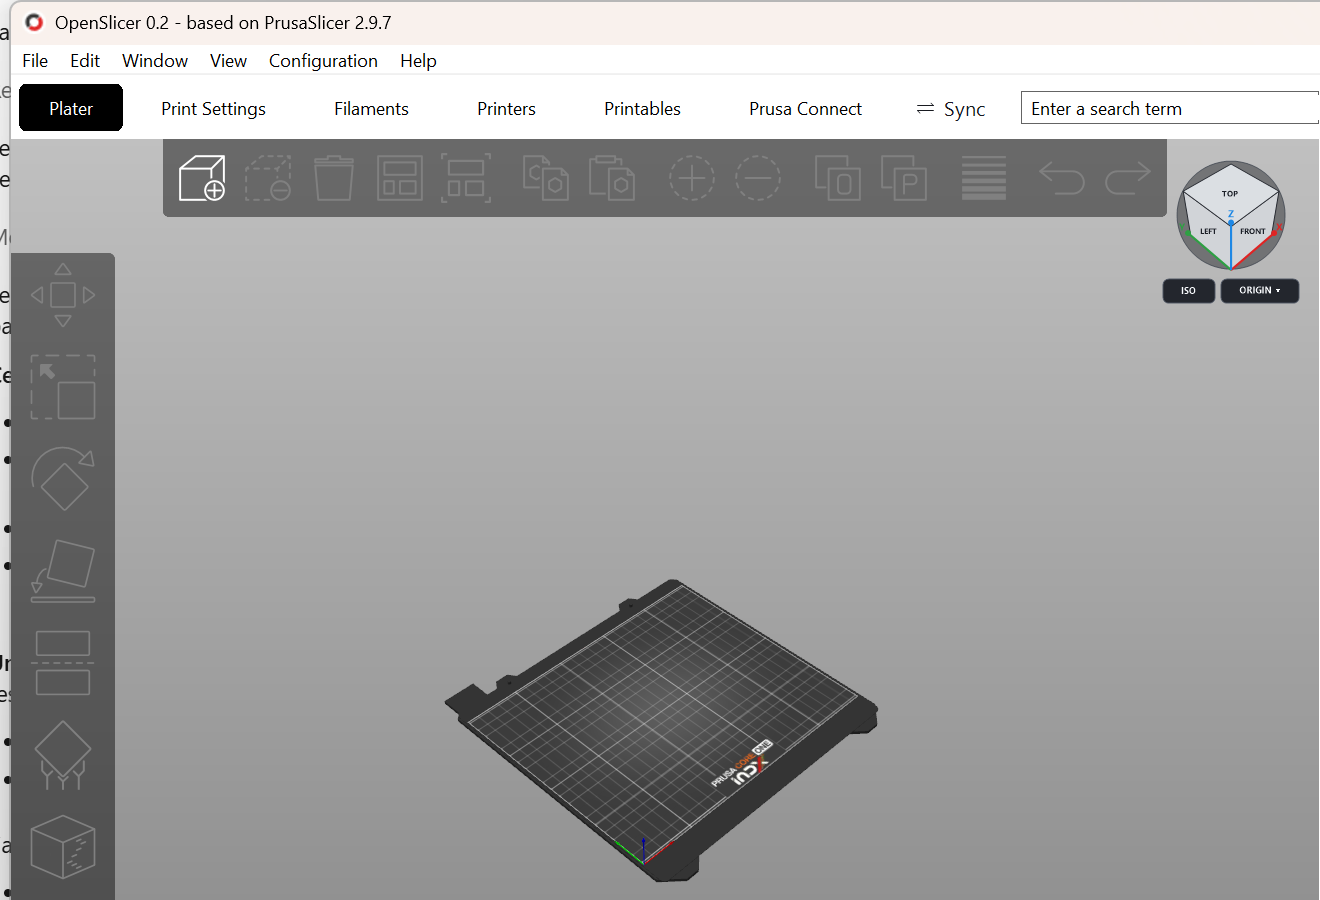
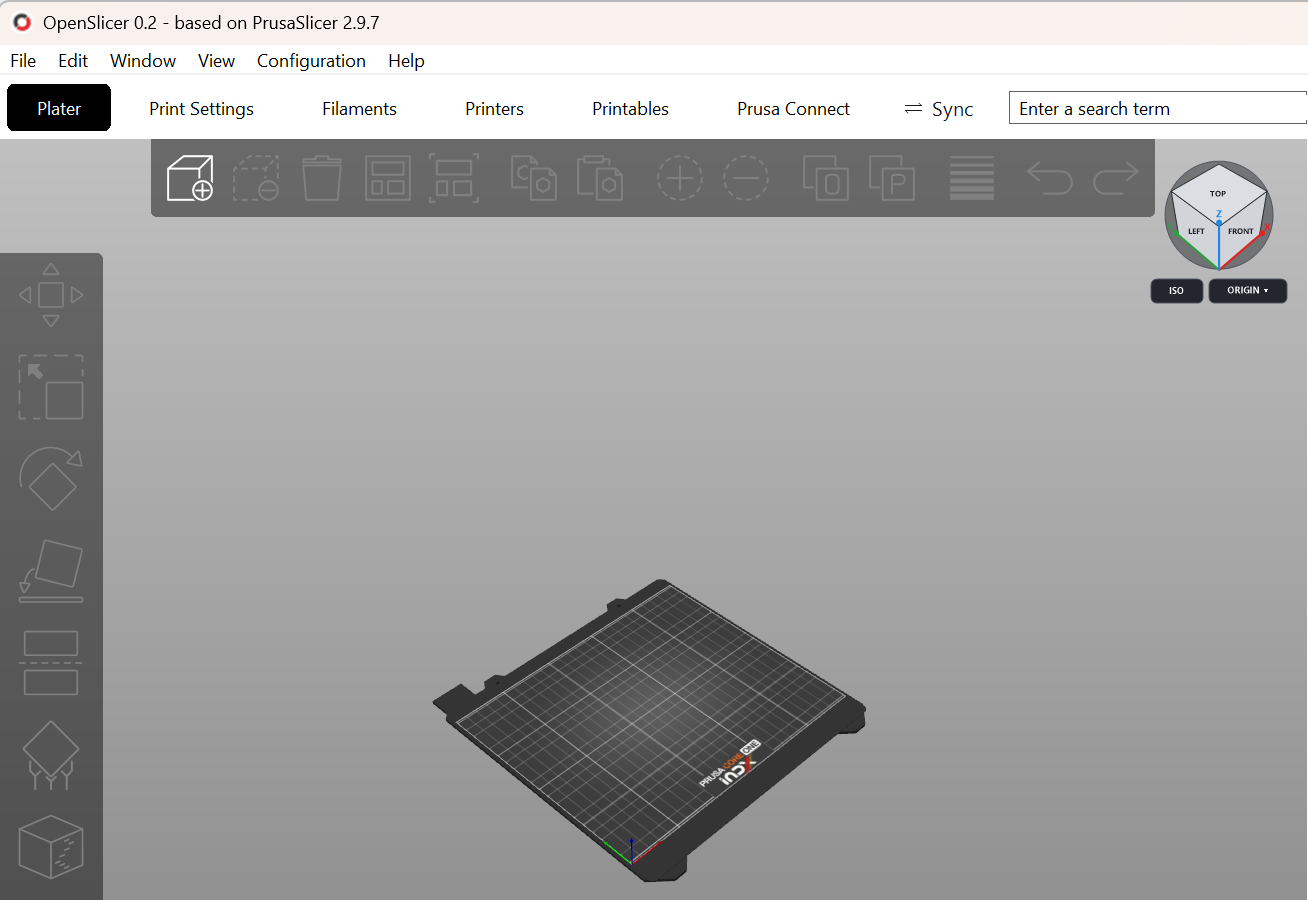
README in English and French, with an AI-assisted development section
Adds a French README, a project status table, a section on what OpenSlicer
does with the Prusa account and the printer, and an open "How this was made"
section: the project was vibe coded with Google Antigravity and Claude Code,
what was verified and what was not.

diff --git a/README.fr.md b/README.fr.md
@@ -1,0 +1,221 @@
+# OpenSlicer
+
+[English](README.md) · **Français**
+
+**OpenSlicer** est une version Windows de [PrusaSlicer](https://github.com/prusa3d/PrusaSlicer) 2.9.7 avec quelques
+outils en plus, pensée d'abord pour les possesseurs de la **Prusa CORE One INDX** (multi-outils) :
+
+- **Onglet Sync** : une vraie synchronisation dans les deux sens des filaments entre l'imprimante (via Prusa Connect)
+  et le slicer.
+- **ViewCube 3D** sur le plateau, pour changer de vue en un clic.
+- **Définir l'origine** : la caméra tourne autour de l'objet sélectionné ou autour du plateau, au choix.
+
+Tout le reste est PrusaSlicer, sans modification : même moteur de découpe, mêmes profils, mêmes fichiers projet.
+
+> [!IMPORTANT]
+> **Ce projet a été codé en « vibe coding ».** Le code a été écrit par des agents IA, sous la direction d'un maker
+> qui l'a testé sur sa propre imprimante. Lisez [Comment il a été fait](#comment-il-a-été-fait-vibe-coding) avant de
+> l'utiliser ou d'y contribuer.
+
+> OpenSlicer est un projet communautaire, sans lien avec Prusa Research ni approuvé par elle.
+> Prusa, PrusaSlicer et Prusa Connect sont des marques de Prusa Research a.s.
+
+![Onglet Sync](doc/openslicer/images/sync-tab.png)
+
+---
+
+## État du projet
+
+| | |
+|---|---|
+| Version | 0.2, expérimentale |
+| Plateforme | Windows 10/11 x64 uniquement |
+| Base | PrusaSlicer 2.9.7 officiel pour Windows (non recompilé) |
+| Testé sur | Une Prusa CORE One INDX (8 outils), firmware 8, Prusa Connect, Windows 11 |
+| Versions publiées | Aucune pour l'instant : compilez-le depuis les sources (quelques secondes, voir [Compilation](#compilation)) |
+
+Son auteur l'utilise depuis novembre 2026 et il est stable jusqu'ici, mais personne d'autre ne l'a encore relu ni
+testé. Les rapports de bugs sont les bienvenus.
+
+---
+
+## Pourquoi l'onglet Sync ?
+
+Depuis le firmware 8, la CORE One INDX permet d'associer un matériau et une couleur à chacun de ses outils, et Prusa
+Connect les affiche dans son onglet *Outils*. PrusaSlicer, lui, ne sait toujours pas lire cette configuration ni y
+renvoyer ses propres filaments : il faut tout ressaisir à la main d'un côté ou de l'autre.
+
+L'onglet Sync affiche les deux côtés l'un au-dessus de l'autre, dans le style de l'onglet *Outils* de Prusa Connect :
+
+| Volet | Contenu | Actions |
+|---|---|---|
+| **Filaments installés dans &lt;imprimante&gt;** | Une carte par outil, lue en direct dans Prusa Connect : matériau, marque, couleur, buse (0.4 HF...), outil dans la tête, poids restant | **Attribuer / Changer** (même catalogue de matériaux que Connect, ou type + couleur personnalisés), **Décharger** |
+| **Filaments actifs dans OpenSlicer** | Une carte par filament du profil d'imprimante actif : profil, couleur | **Changer** (profil compatible pour un type de matériau), **Couleur** |
+
+et deux boutons :
+
+- **Envoyer vers OpenSlicer** : outil *N* de l'imprimante → filament *N* du slicer (couleur + profil de filament
+  compatible).
+- **Envoyer vers &lt;imprimante&gt;** : filament *N* du slicer → outil *N* de l'imprimante dans Prusa Connect. Si un
+  matériau du catalogue Connect a la même marque, le même type et la même couleur, il est utilisé ; sinon un matériau
+  personnalisé nommé `"<nom> #RRGGBB"` est créé une fois dans votre entrepôt Connect puis réutilisé.
+
+Rien n'est jamais envoyé à l'imprimante sous forme de G-code : OpenSlicer utilise les mêmes appels Prusa Connect que
+son application web (voir [API Prusa Connect](doc/openslicer/ARCHITECTURE.md#prusa-connect-api)). Comme Connect
+l'indique lui-même, une attribution enregistre quel matériau se trouve sur un outil ; elle ne charge pas le filament
+et ne change pas ce qu'affiche l'écran de l'imprimante.
+
+L'onglet fonctionne dans les 21 langues de PrusaSlicer et suit la langue choisie dans *Configuration > Préférences*.
+
+![Attribuer un matériau](doc/openslicer/images/assign-material.png)
+
+## ViewCube et Définir l'origine
+
+![ViewCube](doc/openslicer/images/plater-viewcube.png)
+
+- Cliquez sur une face ou un axe du cube pour regarder de ce côté, **ISO** pour la vue isométrique.
+- **ORIGIN** (et *Définir l'origine* en bas des menus contextuels de la vue 3D et de la liste d'objets) :
+  - *Centre de l'objet actif* : la caméra pivote autour de l'objet sélectionné et suit la sélection.
+  - *Centre du plateau* : retour au comportement de PrusaSlicer.
+
+---
+
+## Votre compte et votre imprimante
+
+OpenSlicer n'agit sur votre compte Prusa et votre imprimante que via Prusa Connect, et seulement quand vous le
+demandez :
+
+- **Connexion** : OpenSlicer réutilise la session de PrusaSlicer (Gestionnaire d'identification Windows). Il ne fait
+  que **lire** le jeton d'accès, ne l'écrit ni ne le renouvelle jamais, et ne voit jamais votre mot de passe.
+- **Lecture** : la liste des imprimantes et les outils sont lus à l'ouverture de l'onglet Sync ou quand vous cliquez
+  sur *Actualiser*. Pas d'interrogation en tâche de fond, pas d'accès au réseau local.
+- **Écriture** : uniquement *Attribuer / Changer*, *Envoyer vers &lt;imprimante&gt;* (attributions de matériaux,
+  matériaux personnalisés dans votre entrepôt) et *Décharger* (seulement quand l'imprimante est au repos). Tout cela
+  peut aussi être fait ou défait depuis Prusa Connect.
+- **API non documentée** : Prusa Connect n'a pas d'API publique pour cela. OpenSlicer utilise les appels internes de
+  l'application web Connect ; si Prusa les modifie, l'onglet Sync peut cesser de fonctionner (sans conséquence pour
+  votre compte ni votre imprimante).
+
+---
+
+## Installation
+
+OpenSlicer a besoin de **PrusaSlicer 2.9.7 pour Windows x64** installé (il réutilise son `PrusaSlicer.dll` et ses
+ressources).
+
+1. Installez [PrusaSlicer 2.9.7](https://github.com/prusa3d/PrusaSlicer/releases/tag/version_2.9.7).
+2. Compilez OpenSlicer (ci-dessous) avec `-Publish`.
+3. Lancez `OpenPS.exe`. Réglages, profils et connexion au compte Prusa sont partagés avec PrusaSlicer
+   (`%APPDATA%\PrusaSlicer`). PrusaSlicer continue de fonctionner et peut rester ouvert.
+4. Pour l'onglet Sync, connectez-vous une fois à votre compte Prusa dans l'onglet **Prusa Connect**.
+
+Si `PrusaSlicer.dll` n'est pas la version 2.9.7 Windows x64, OpenSlicer démarre quand même, vous prévient une fois et
+désactive les fonctions qui dépendent des rouages internes de PrusaSlicer (ViewCube, Définir l'origine, choix
+automatique du profil de filament).
+
+## Compilation
+
+Prérequis : Windows 10/11 x64, Visual Studio 2019 ou plus récent avec *Développement Desktop en C++*,
+PowerShell 5+, PrusaSlicer 2.9.7 installé.
+
+```powershell
+# compilation seule -> build\openslicer\OpenPS.exe
+powershell -ExecutionPolicy Bypass -File scripts\build_launcher.ps1
+
+# compilation et installation dans C:\App\OpenPS (ferme un OpenSlicer lancé depuis ce dossier, jamais de force)
+powershell -ExecutionPolicy Bypass -File scripts\build_launcher.ps1 -Publish -InstallDir C:\App\OpenPS
+```
+
+Le lanceur est une seule unité de compilation C++17 et se compile en quelques secondes. PrusaSlicer lui-même n'est
+**pas** recompilé : aucune de ses dépendances (`deps/`) n'est nécessaire.
+
+Les ressources aux couleurs d'OpenSlicer (icônes, écran de démarrage, catalogue français) sont déjà dans
+`resources/`. Pour les régénérer depuis une installation de PrusaSlicer :
+`python scripts\build_assets_and_loc.py --help` (nécessite Pillow).
+
+## Fonctionnement
+
+`OpenPS.exe` charge le `PrusaSlicer.dll` officiel et appelle son point d'entrée `slic3r_main()`, exactement comme
+`prusa-slicer.exe`. Avant cela, il installe quelques hooks d'import et sous-classe des fenêtres de PrusaSlicer pour
+ajouter les fonctions d'OpenSlicer ; pour le ViewCube et Définir l'origine, il appelle des fonctions de PrusaSlicer
+dont les adresses sont connues pour la version 2.9.7. Détails (en anglais) :
+**[doc/openslicer/ARCHITECTURE.md](doc/openslicer/ARCHITECTURE.md)**.
+
+| Chemin | Contenu |
+|---|---|
+| `src/openps_launcher/` | Tout le code d'OpenSlicer (lanceur, onglet Sync, client Prusa Connect, traductions) |
+| `scripts/` | Scripts de compilation, d'installation et de génération des ressources |
+| `resources/icons`, `resources/localization/fr` | Ressources installées par-dessus celles de PrusaSlicer |
+| `patches/` | Modifications expérimentales pour une compilation complète des sources (non utilisées par le lanceur) |
+| `doc/openslicer/` | Documentation développeur (en anglais) |
+| tout le reste | Sources de PrusaSlicer 2.9.7, intactes ([README d'origine](doc/PrusaSlicer-README.md)) |
+
+L'historique git conserve tout l'historique de PrusaSlicer jusqu'au tag `version_2.9.7` ; OpenSlicer, ce sont les
+commits par-dessus.
+
+---
+
+## Comment il a été fait (vibe coding)
+
+OpenSlicer a été **codé en « vibe coding »** : son auteur ([Tech Napa](https://github.com/technapa), maker et
+youtubeur impression 3D, pas développeur C++ professionnel) a décrit les fonctions, testé chaque version sur une vraie
+imprimante et signalé ce qui n'allait pas ; des agents IA ont écrit le code.
+
+- **Prototype** : [Google Antigravity](https://antigravity.google/) (Gemini). Il a produit le premier lanceur, le
+  premier onglet Sync et le ViewCube. La synchro fonctionnait de l'imprimante vers le slicer, mais dans l'autre sens
+  elle envoyait un fichier G-code que l'imprimante exécutait comme une impression et qui réécrivait ses réglages de
+  filament par outil.
+- **Réécriture et nettoyage** : [Claude Code](https://claude.com/claude-code) (Claude Opus). Il a réécrit entièrement
+  l'onglet Sync et son client Prusa Connect (style Connect, attributions par les mêmes appels GraphQL que
+  l'application web Connect, aucun G-code, session en lecture seule), traduit chaque texte ajouté dans les 21 langues,
+  ajouté la vérification de la version de la DLL, les scripts de compilation et cette documentation. Les commits faits
+  ainsi portent une ligne `Co-Authored-By: Claude`.
+- **Rouages internes de PrusaSlicer** : les adresses de fonctions et la disposition des objets dans
+  [`PrusaSlicerDll.hpp`](src/openps_launcher/PrusaSlicerDll.hpp) ont été trouvées par les agents en comparant les
+  sources de PrusaSlicer 2.9.7 au désassemblage de la DLL officielle.
+- **Appels Prusa Connect** : repris des requêtes de l'application web Connect, pas d'une documentation.
+
+Ce que cela signifie pour vous :
+
+- Le code a été **relu par son auteur, testé sur du vrai matériel et se compile sans avertissement (`/W4`)**, mais
+  **aucun développeur C++ ou Windows expérimenté ne l'a encore relu**. Traitez-le comme n'importe quel jeune projet
+  amateur.
+- **Vérifié** : lecture de l'onglet Sync et *Envoyer vers l'imprimante* / *Envoyer vers OpenSlicer* sur une CORE One
+  INDX à 8 outils ; interface en anglais, français, allemand et japonais ; la vérification de la DLL ; ViewCube et
+  Définir l'origine avec une mise à l'échelle de 150 %.
+- **Pas encore vérifié** : *Décharger* depuis l'onglet Sync, le changement de langue pendant qu'OpenSlicer tourne, les
+  autres imprimantes (les imprimantes mono-outil devraient fonctionner mais n'ont pas été essayées), Windows 10.
+- Les traductions autres que l'anglais et le français ont été écrites par l'IA sans locuteur natif ; les corrections
+  sont les bienvenues ([TRANSLATIONS.md](doc/openslicer/TRANSLATIONS.md)).
+
+Relectures, tests et pull requests humains, assistés par IA ou non, sont les bienvenus. Si vous utilisez un agent IA,
+indiquez-le dans votre pull request.
+
+---
+
+## Contribuer
+
+Les issues et pull requests sont les bienvenues. Points d'entrée utiles (en anglais) :
+
+- [Architecture](doc/openslicer/ARCHITECTURE.md) : comment s'articulent le lanceur, les hooks et l'onglet Sync.
+- [Traductions](doc/openslicer/TRANSLATIONS.md) : ajouter ou corriger un texte dans les 21 langues.
+- [Porter vers une autre version de PrusaSlicer](doc/openslicer/UPDATING_PRUSASLICER.md).
+
+Merci de garder le code en anglais (commentaires et identifiants), de compiler sans avertissement (`/W4`) et
+d'ajouter tout nouveau texte visible dans `SyncIndxI18n.hpp`, dans toutes les langues. Ne commitez jamais de jeton, de
+clé ni quoi que ce soit venant de votre compte Prusa.
+
+### Limites connues
+
+- Windows x64 uniquement ; PrusaSlicer 2.9.7 uniquement pour le ViewCube et Définir l'origine (voir plus haut).
+- Hors français, certains textes de PrusaSlicer disent encore « PrusaSlicer » (seul le catalogue français est
+  renommé).
+- Les couleurs du slicer sont lues dans les listes de filaments du plateau ; après avoir changé une couleur, ouvrez
+  l'onglet Sync depuis le plateau pour qu'elle soit relue.
+- L'onglet Sync dépend d'appels Prusa Connect non documentés (voir plus haut).
+
+## Licence
+
+OpenSlicer est un logiciel libre sous **GNU Affero General Public License v3** ([LICENSE](LICENSE)), comme PrusaSlicer.
+PrusaSlicer est © Prusa Research et ses contributeurs, basé sur Slic3r d'Alessandro Ranellucci et la communauté
+RepRap.

diff --git a/README.md b/README.md
@@ -1,7 +1,9 @@
 # OpenSlicer
 
+**English** · [Français](README.fr.md)
+
 **OpenSlicer** is a Windows build of [PrusaSlicer](https://github.com/prusa3d/PrusaSlicer) 2.9.7 with a few extra tools,
-made first for the **Prusa CORE One INDX** (multi-tool) owners:
+made first for owners of the **Prusa CORE One INDX** (multi-tool):
 
 - **Sync tab**: a real two-way synchronization of filaments between the printer (through Prusa Connect) and the slicer.
 - **3D ViewCube** over the plater, to change the view in one click.
@@ -9,10 +11,29 @@ made first for the **Prusa CORE One INDX** (multi-tool) owners:
 
 Everything else is PrusaSlicer, unchanged: same slicing engine, same profiles, same project files.
 
+> [!IMPORTANT]
+> **This project was vibe coded.** It was written by AI coding agents, directed and tested by one maker on one
+> printer. Read [How this was made](#how-this-was-made-vibe-coding) before using it or contributing.
+
 > OpenSlicer is a community project. It is not affiliated with or endorsed by Prusa Research.
 > Prusa, PrusaSlicer and Prusa Connect are trademarks of Prusa Research a.s.
 
 ![Sync tab](doc/openslicer/images/sync-tab.png)
+
+---
+
+## Project status
+
+| | |
+|---|---|
+| Version | 0.2, experimental |
+| Platform | Windows 10/11 x64 only |
+| Base | Official PrusaSlicer 2.9.7 for Windows (not rebuilt) |
+| Tested on | One Prusa CORE One INDX (8 tools) with firmware 8, Prusa Connect, Windows 11 |
+| Releases | None yet: build it from source (a few seconds, see [Building](#building)) |
+
+It has been used by its author since November 2026 and has been stable so far, but it has had no review by
+anyone else yet. Bug reports are very welcome.
 
 ---
 
@@ -55,14 +76,29 @@ The tab works in the 21 languages of PrusaSlicer and follows the language chosen
 
 ---
 
+## Your account and your printer
+
+OpenSlicer touches your Prusa account and your printer only through Prusa Connect, and only when you ask:
+
+- **Login**: OpenSlicer reuses the session of PrusaSlicer (Windows Credential Manager). It only **reads** the access
+  token, never writes or refreshes it, and never sees your password.
+- **Reading**: the printer list and the tools are read when you open the Sync tab or click *Refresh*. There is no
+  background polling and no access to the local network.
+- **Writing**: only *Assign / Change*, *Send to &lt;printer&gt;* (material assignments, custom materials in your
+  warehouse) and *Unload* (only when the printer is idle). All of them can also be done or undone from Prusa Connect.
+- **Undocumented API**: Prusa Connect has no public API for this. OpenSlicer uses the internal calls of the Connect
+  web application; if Prusa changes them, the Sync tab may stop working (your account and printer are not affected).
+
+---
+
 ## Installing
 
 OpenSlicer needs **PrusaSlicer 2.9.7 for Windows x64** installed (it reuses its `PrusaSlicer.dll` and resources).
 
 1. Install [PrusaSlicer 2.9.7](https://github.com/prusa3d/PrusaSlicer/releases/tag/version_2.9.7).
-2. Build OpenSlicer (below) with `-Publish`, or copy a release folder.
+2. Build OpenSlicer (below) with `-Publish`.
 3. Start `OpenPS.exe`. Settings, profiles and the Prusa Account login are shared with PrusaSlicer
-   (`%APPDATA%\PrusaSlicer`).
+   (`%APPDATA%\PrusaSlicer`). PrusaSlicer itself keeps working and can stay open.
 4. For the Sync tab, log in to your Prusa Account in the **Prusa Connect** tab once.
 
 If `PrusaSlicer.dll` is not the 2.9.7 Windows x64 release, OpenSlicer still starts, tells you once, and disables the
@@ -103,6 +139,45 @@ OpenSlicer features; for the ViewCube and Set origin it calls PrusaSlicer functi
 | `doc/openslicer/` | Developer documentation |
 | everything else | PrusaSlicer 2.9.7 sources, untouched ([original README](doc/PrusaSlicer-README.md)) |
 
+The git history keeps the full PrusaSlicer history up to the `version_2.9.7` tag; OpenSlicer is the commits on top.
+
+---
+
+## How this was made (vibe coding)
+
+OpenSlicer was **vibe coded**: its author ([Tech Napa](https://github.com/technapa), a maker and 3D printing
+YouTuber, not a professional C++ developer) described the features, tested each build on a real printer and
+reported what was wrong; AI coding agents wrote the code.
+
+- **Prototype**: [Google Antigravity](https://antigravity.google/) (Gemini). It produced the first launcher, the
+  first Sync tab and the ViewCube. The Sync worked from printer to slicer, but the other direction uploaded a G-code
+  file that the printer ran as a print job and that rewrote its per-tool filament settings.
+- **Rewrite and clean-up**: [Claude Code](https://claude.com/claude-code) (Claude Opus). It rewrote the Sync tab and
+  its Prusa Connect client from scratch (Connect styling, assignments through the same GraphQL calls as the Connect
+  web app, no G-code at all, read-only use of the session), translated every added text into the 21 languages,
+  added the DLL build check, the build scripts and this documentation. Commits made this way carry a
+  `Co-Authored-By: Claude` line.
+- **PrusaSlicer internals**: the function addresses and object layouts in
+  [`PrusaSlicerDll.hpp`](src/openps_launcher/PrusaSlicerDll.hpp) were found by the agents by comparing the PrusaSlicer
+  2.9.7 sources with the disassembly of the official DLL.
+- **Prusa Connect calls**: copied from the requests of the Connect web application, not from a documentation.
+
+What this means for you:
+
+- The code has been **read by its author, tested on real hardware, and built without warnings (`/W4`)**, but it has
+  **not been reviewed by an experienced C++ or Windows developer**. Treat it as you would any young hobby project.
+- **Verified**: Sync tab reading and *Send to printer* / *Send to OpenSlicer* on a CORE One INDX with 8 tools; UI in
+  English, French, German and Japanese; the DLL check; ViewCube and Set origin at 150 % display scaling.
+- **Not verified yet**: *Unload* from the Sync tab, changing the language while OpenSlicer runs, other printers
+  (single-tool printers should work but were not tried), Windows 10.
+- The translations other than English and French were written by the AI without a native speaker; corrections are
+  welcome ([TRANSLATIONS.md](doc/openslicer/TRANSLATIONS.md)).
+
+Human reviews, tests and pull requests, AI-assisted or not, are welcome. If you use an AI agent, please say so in
+your pull request.
+
+---
+
 ## Contributing
 
 Issues and pull requests are welcome. Useful entry points:
@@ -112,7 +187,7 @@ Issues and pull requests are welcome. Useful entry points:
 - [Porting to another PrusaSlicer version](doc/openslicer/UPDATING_PRUSASLICER.md).
 
 Please keep the code in English (comments and identifiers), build without warnings (`/W4`), and add new user-visible
-text to `SyncIndxI18n.hpp` in every language.
+text to `SyncIndxI18n.hpp` in every language. Never commit tokens, keys or anything from your Prusa account.
 
 ### Known limitations
 
@@ -120,6 +195,7 @@ text to `SyncIndxI18n.hpp` in every language.
 - Outside French, some PrusaSlicer texts still name "PrusaSlicer" (only the French catalog is rebranded).
 - The slicer colors are read from the filament combo boxes of the plater; open the Sync tab from the plater after
   changing a color so that it is read again.
+- The Sync tab depends on undocumented Prusa Connect calls (see above).
 
 ## License
 
